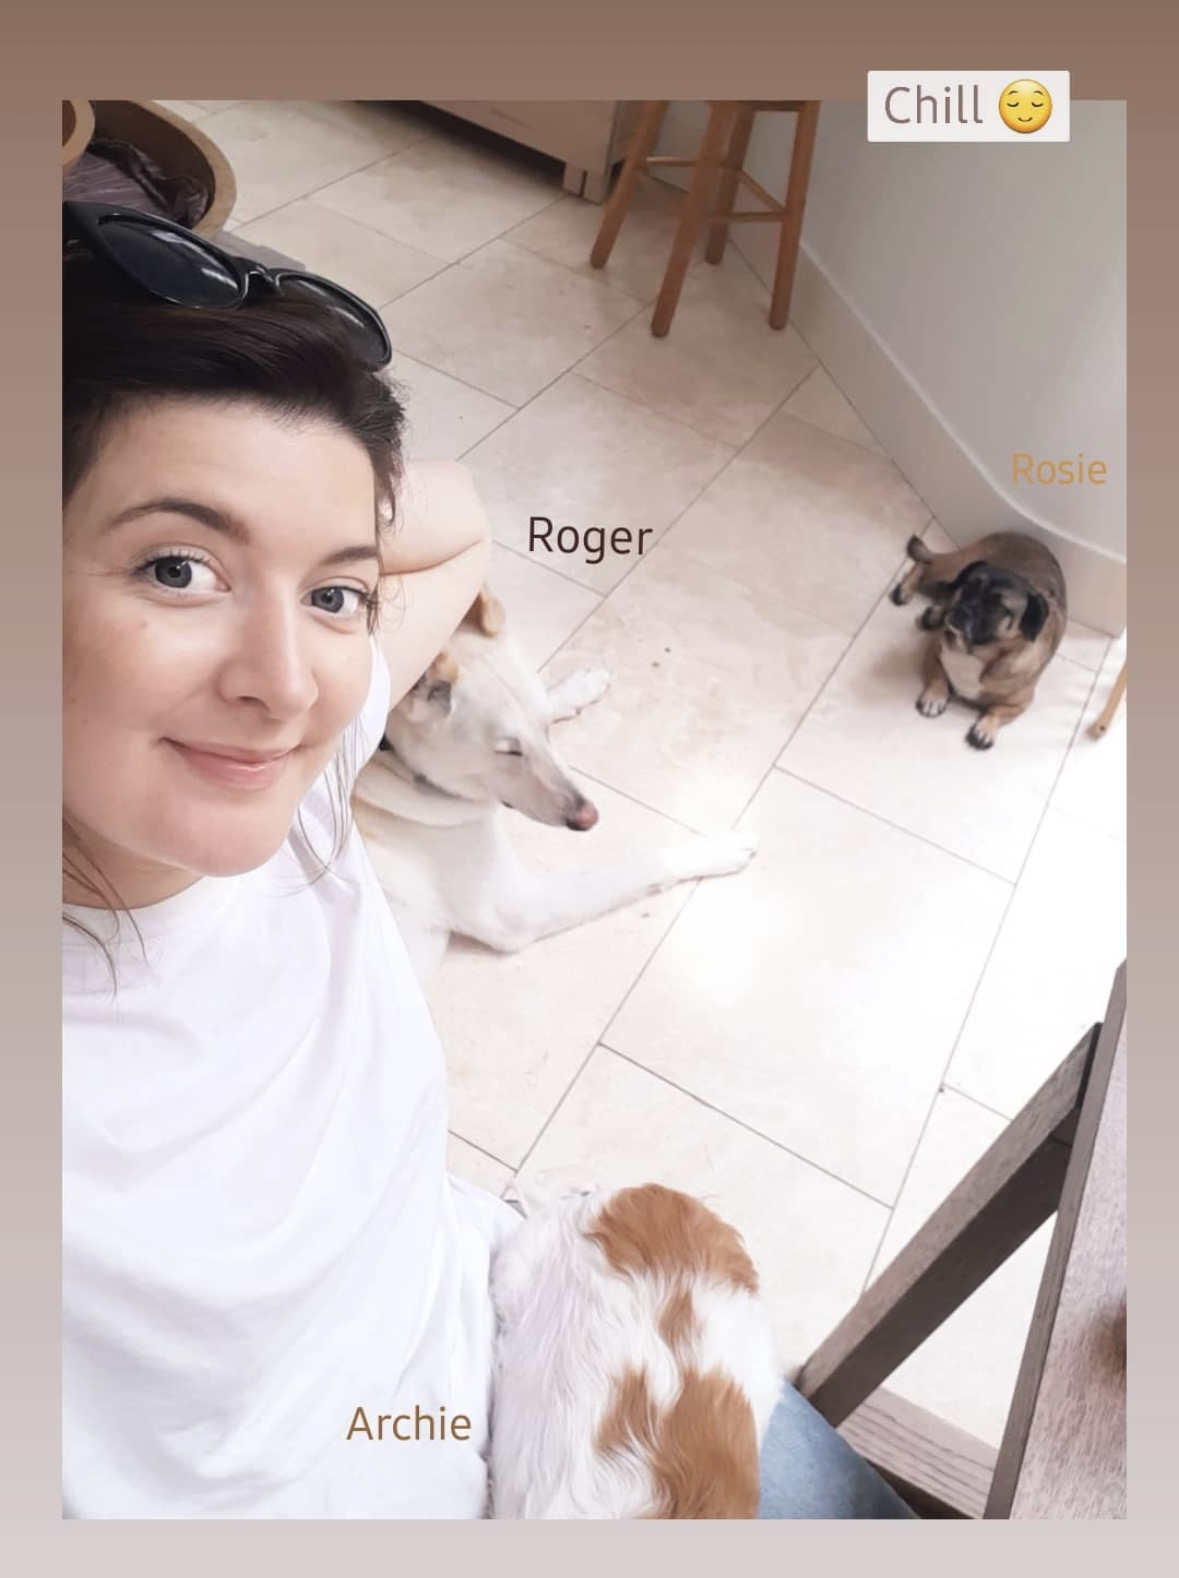
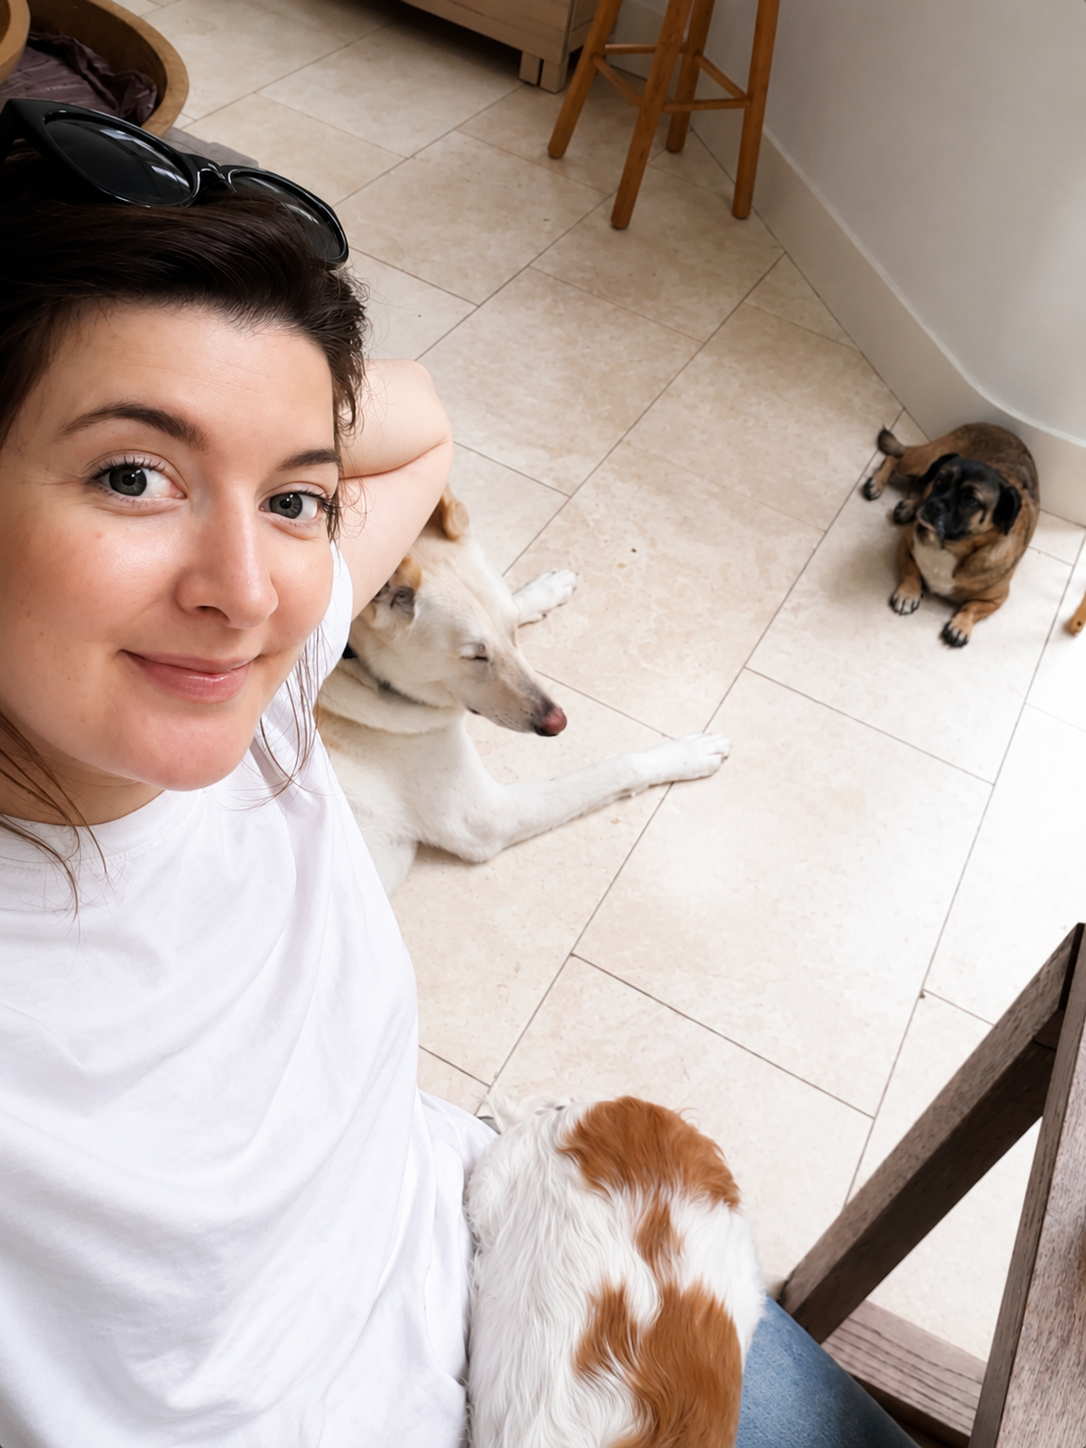
chocco image added

diff --git a/src/components/Gallery.jsx b/src/components/Gallery.jsx
@@ -1,30 +1,38 @@
 import "../styles/Gallery.css";
 
 import edna from "../assets/images/edna.jpg";
+import chocco from "../assets/images/chocco.jpg";
 
 function Gallery() {
   return (
     <section id="gallery" className="gallery">
       <div className="container">
-
         <h2>Happy Pets</h2>
-
         <p className="gallery-subtitle">
           A few of the wonderful pets I've had the pleasure of caring for.
         </p>
-
+        {/* Gallery - EDNA */}
         <div className="gallery-grid">
-
           <div className="gallery-card">
             <img src={edna} alt="Edna the cat" />
-
             <h3>Edna</h3>
-
             <p>
               Enjoying some sunshine during a home visit.
             </p>
           </div>
 
+
+        {/* Gallery - Chocco */}
+        <div className="gallery-grid">
+          <div className="gallery-card">
+            <img src={chocco} alt="Chocco the Shitzu" />
+            <h3>Chocco</h3>
+            <p>
+              Enjoying my company on the balcony during a boarding stay at my home.
+            </p>
+          </div>
+
+        </div>
         </div>
 
       </div>